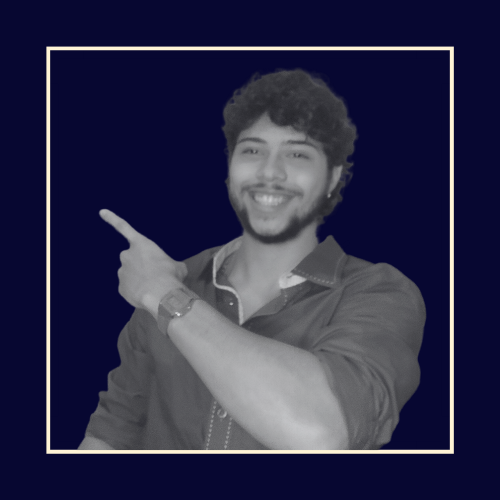
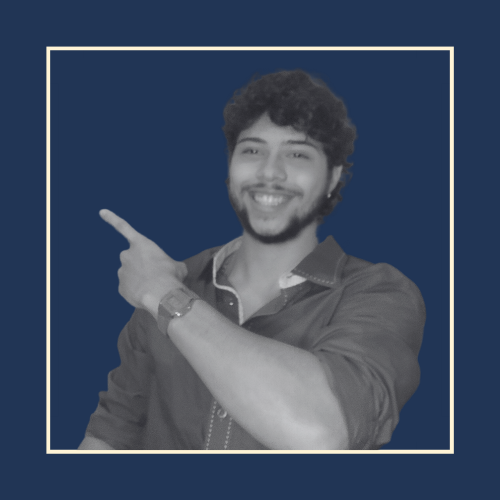
Add files via upload

diff --git a/index.html b/index.html
@@ -8,36 +8,96 @@
     <link rel="stylesheet" href="style.css">
 </head>
 <body>
-    <header>
-    </header>
     <main>
+        <header id="header">
+            <a href="#home">Home</a>
+            <a href="#sobre-mim">Sobre Mim</a>
+            <a href="#habilidades">Habilidades</a>
+            <a href="#projetos">Projetos</a>
+        </header>
         <div class="container-secoes">
-            <section class="secao-principal">
-                <div class="secao-principal__container-texto">
-                    <h1 class="secao-principal__titulo">Desenvolvedor <br> Front End.</h1>
-                    <p class="secao-principal__paragrafo">Olá, me chamo Gabriel Lemos, sou desenvolvedor front end, tenho 19 anos e moro em São Paulo.</p>
-                </div>
-                <div class="secao-principal__container-imagem">
-                    <img class="container-imagem__imagem" src="assets/foto portifolio.png" alt="Gabriel Lemos">
-                </div>
-            </section>
-    
-            <section class="secao-sobre-mim">
-                <div>
-                    <h2 class="secao-principal__titulo">Sobre mim</h2>
-                    <p class="secao-principal__paragrafo">Olá, me chamo Gabriel Lemos, tenho 19 anos e moro em São Paulo. Atualmente estou cursando o 3º semestre de Análise e Desenvolvimento de Sistemas na FATEC São Paulo. Sou desenvolvedor front end, com conhecimentos em HTML, CSS, JavaScript, ReactJS e React Native. Também tenho conhecimentos em PHP, MySQL e Java.</p>
-                </div>
-                <div>
-                    <h2 class="secao-principal__titulo">Habilidades Técnicas</h2>
-                    <p class="secao-principal__paragrafo">Olá, me chamo Gabriel Lemos, tenho 19 anos e moro em São Paulo. Atualmente estou cursando o 3º semestre de Análise e Desenvolvimento de Sistemas na FATEC São Paulo. Sou desenvolvedor front end, com conhecimentos em HTML, CSS, JavaScript, ReactJS e React Native. Também tenho conhecimentos em PHP, MySQL e Java.</p>
-                </div>
-            </section>
-            <section class="section-3">
-                <h2 class="titulos">Portifólio</h2>
-                <p class="paragrafos">Lorem ipsum dolor sit amet consectetur adipisicing elit. Quasi incidunt laudantium quaerat ratione porro delectus voluptate et sint, animi itaque assumenda iste debitis sed quisquam voluptas. Inventore, iste maiores. Consectetur.</p>
-            </section>
+            <div class="container-secoes__wrapper">
+                <section class="secao-principal" id="home">
+                    <div class="secao-principal__container-texto">
+                        <h1 class="secao-principal__titulo">Desenvolvedor <br> Front End.</h1>
+                        <p class="secao-principal__paragrafo">Buscando aprimoramento contínuo.</p>
+                    </div>
+                    <div class="secao-principal__container-imagem">
+                        <img class="container-imagem__imagem" src="assets/foto portifolio.png" alt="Gabriel Lemos">
+                    </div>
+                </section>
+
+                <section class="secoes-secundarias" id="sobre-mim">
+                    <div class="secoes-secundarias__container">
+                        <div class="container__particao-1">
+                            <h2 class="secoes-secundarias__titulo titulo-secao-2" >Sobre Mim</h2>
+                            <p class="secoes-secundarias__paragrafo">Olá, me chamo Gabriel Lemos, tenho 19 anos e moro em São Paulo. Atualmente estou cursando o 3º semestre de Análise e Desenvolvimento de Sistemas na FATEC São Paulo. Sou desenvolvedor front end, com conhecimentos em HTML, CSS, JavaScript, ReactJS e React Native. Também tenho conhecimentos em PHP, MySQL e Java.</p>
+                        </div>
+                        <div class="container__particao-2">
+                            <h2 class="secoes-secundarias__titulo">Sobre Mim</h2>
+                            <p class="secoes-secundarias__paragrafo"></p>
+                        </div>
+                    </div>
+                </section>
+        
+                <section class="secoes-secundarias" id="habilidades">
+                    <div class="secoes-secundarias__container">
+                        <div class="container__particao-1">
+                            <h2 class="secoes-secundarias__titulo titulo-secao-2" >Experiência Acadêmica</h2>
+                            <p class="secoes-secundarias__paragrafo">Olá, me chamo Gabriel Lemos, tenho 19 anos e moro em São Paulo. Atualmente estou cursando o 3º semestre de Análise e Desenvolvimento de Sistemas na FATEC São Paulo. Sou desenvolvedor front end, com conhecimentos em HTML, CSS, JavaScript, ReactJS e React Native. Também tenho conhecimentos em PHP, MySQL e Java.</p>
+                        </div>
+                        <div class="container__particao-2">
+                            <h2 class="secoes-secundarias__titulo">Habilidades Técnicas</h2>
+                            <p class="secoes-secundarias__paragrafo">Olá, me chamo Gabriel Lemos, tenho 19 anos e moro em São Paulo. Atualmente estou cursando o 3º semestre de Análise e Desenvolvimento de Sistemas na FATEC São Paulo. Sou desenvolvedor front end, com conhecimentos em HTML, CSS, JavaScript, ReactJS e React Native. Também tenho conhecimentos em PHP, MySQL e Java.</p>
+                        </div>
+                    </div>
+                </section>
+
+                <section class="section-projetos" id="projetos">
+                    <h2 class="titulos">Projetos</h2>
+                    <div class="container-projetos">
+                        <div class="container-projetos__linhas">
+                            <div class="container-projetos__linhas__elementos">
+                                projeto 1
+                            </div>
+                            <div class="container-projetos__linhas__elementos">
+                                projeto 2
+                            </div>
+                            <div class="container-projetos__linhas__elementos">
+                                projeto 3
+                            </div>
+                        </div>
+                        <div class="container-projetos__linhas">
+                            <div class="container-projetos__linhas__elementos">
+                                projeto 4
+                            </div>
+                            <div class="container-projetos__linhas__elementos">
+                                projeto 5
+                            </div>
+                            <div class="container-projetos__linhas__elementos">
+                                projeto 6
+                            </div>
+                        </div>
+                        <div class="container-projetos__linhas">
+                            <div class="container-projetos__linhas__elementos">
+                                projeto 7
+                            </div>
+                            <div class="container-projetos__linhas__elementos">
+                                projeto 8
+                            </div>
+                            <div class="container-projetos__linhas__elementos">
+                                projeto 9
+                            </div>
+                        </div>
+                    </div>
+                    
+                    <p class="paragrafos">Lorem ipsum dolor sit amet consectetur adipisicing elit. Quasi incidunt laudantium quaerat ratione porro delectus voluptate et sint, animi itaque assumenda iste debitis sed quisquam voluptas. Inventore, iste maiores. Consectetur.</p>
+                </section>
+
+            </div>
         </div>
     </main>
     <footer></footer>
+    <script src="script.js"></script>
 </body>
 </html>

diff --git a/style.css b/style.css
@@ -1,59 +1,86 @@
 :root {
-    --azul-escuro: #070731;
-    --azul-claro: #435585;
-    --creme: #fff4d6;
-    --cinza-marrom: #908a76;
+    --cor-primaria: #213555;
+    --cor-secundaria: #ffecd3;
+    --cor-terciaria: #4F709C;
+    --cor-quaternaria: #e28436;
+}
+
+html {
+    scroll-behavior: smooth;
 }
 
 * {
     margin: 0;
     padding: 0;
     box-sizing: border-box;
+    font-family: 'Segoe UI', Tahoma, Geneva, Verdana, sans-serif;
 }
 
 body {
-    font-family: 'Segoe UI', Tahoma, Geneva, Verdana, sans-serif;
-    background-color: var(--azul-escuro);
-    color: var(--creme);
-    scroll-behavior: smooth;
+    background-color: var(--cor-primaria);
+    color: var(--cor-secundaria);
 }
 
-main {
-    width: 100%;
-    height: min-content;
+#header {
     display: flex;
     flex-direction: column;
     align-items: center;
+    justify-content: center;
+    position: absolute;
+    top: 40%;
+    right: 40px;
+    width: 10%;
+    min-height: 70px;
+    padding: 1em;
+    background-color: var(--cor-primaria);
+    border: 1px solid var(--cor-quaternaria);
+    color: var(--cor-secundaria);
+    gap: 2em;
+}
+
+#header a {
+    text-decoration: none;
+    color: var(--cor-secundaria);
+    font-size: 2em;
 }
 
 .container-secoes {
     scroll-snap-type: y mandatory;
     overflow-y: scroll;
-    scroll-behavior: smooth;
     height: 100vh;
 }
 
+.container-secoes__wrapper {
+    display: flex;
+    flex-direction: column;
+    align-items: center;
+    justify-content: center;
+}
+
 section {
-    width: 100%;
     height: 100vh;
+    display: flex;
+    align-items: center;
+    justify-content: center;
     scroll-snap-align: start;
 }
+
 
 .secao-principal {
     display: flex;
     align-items: center;
     justify-content: center;
-    gap: 10em;
+    gap: 2em;
     height: 80vh;
-    
+    width: 60%;
 }
 
 .secao-principal__container-texto {
     display: flex;
     flex-direction: column;
     align-items: start;
-    width: 30%;
-    gap: 1rem;
+    width: 50%;
+    gap: 1em;
 }
 
 .titulos {
@@ -65,48 +92,102 @@ section {
     font-size: 1.8em;
     line-height: 1.8em;
     font-weight: 400;
-    color: var(--creme);
+    color: var(--cor-secundaria);
 }
 
 .secao-principal__titulo {
+    font-size: 6em;
+    font-weight: 700;
+    color: var(--cor-quaternaria);
+}
+
+.secao-principal__paragrafo {
+    font-size: 2em;
+    line-height: 2em;
+    font-weight: 400;
+    color: var(--cor-secundaria);
+}
+
+.secao-principal__container-imagem {
+    height: 60%;
+    display: flex;
+    align-items: center;
+    justify-content: center;
+}
+
+.container-imagem__imagem {
+    height: 100%;
+    width: 100%;
+    object-fit: cover;
+}
+
+.secoes-secundarias {
+    display: flex;
+    align-items: center;
+    justify-content: center;
+    gap: 2rem;
+    width: 100%;
+    height: 100vh;
+    background-color: var(--cor-secundaria);
+    color: var(--cor-primaria);
+}
+
+.secoes-secundarias__container {
+    width: 80%;
+    display: flex;
+    align-items: center;
+    justify-content: center;
+    gap: 4em;
+}
+
+.secoes-secundarias__titulo {
     font-size: 5em;
     font-weight: 700;
 }
 
-.secao-principal__paragrafo {
+.titulo-secao-2 {
+    color: var(--cor-primaria);
+}
+
+.secoes-secundarias__paragrafo {
     font-size: 1.8em;
     line-height: 1.8em;
     font-weight: 400;
-    color: var(--cinza-marrom);
+    color: var(--cor-primaria);
+    margin-top: 2em;
 }
 
-.secao-principal__container-imagem {
-    width: 50%;
-    height: 70%;
+.container__particao-1 {
+    margin-top: -25em;
 }
 
-.container-imagem__imagem {
-    width: 100%;
-    height: 100%;
-    object-fit: contain;
+.container__particao-2 {
+    margin-top: 25em;
 }
 
-.secao-sobre-mim {
+.section-projetos {
     display: flex;
+    flex-direction: column;
     align-items: center;
-    justify-content: center;
-    gap: 2rem;
-    height: 100vh;
-    background-color: var(--creme);
-    color: var(--azul-escuro);
-}
-
-.section-3 {
-    display: flex;
-    align-items: center;
-    justify-content: center;
+    justify-content: start;
+    padding: 6em;
     gap: 2rem;
     height: 100vh;
     width: 100%;
-    background-color: var(--azul-claro);
+    background-color: var(--cor-secundaria);
+    color: var(--cor-primaria);
+}
+
+.container-projetos {
+    display: flex;
+    flex-direction: column;
+    align-items: center;
+    justify-content: center;
+}
+
+.container-projetos__linhas {
+    display: flex;
+    align-items: center;
+    justify-content: center;
+    gap: 2em;
 }

diff --git a/script.js b/script.js
@@ -1,0 +1,8 @@
+document.querySelectorAll('a[href^="#"]').forEach(anchor => {
+    anchor.addEventListener('click', function (e) {
+        e.preventDefault();
+        document.querySelector(this.getAttribute('href')).scrollIntoView({
+            behavior: "smooth"
+        });
+    });
+});
